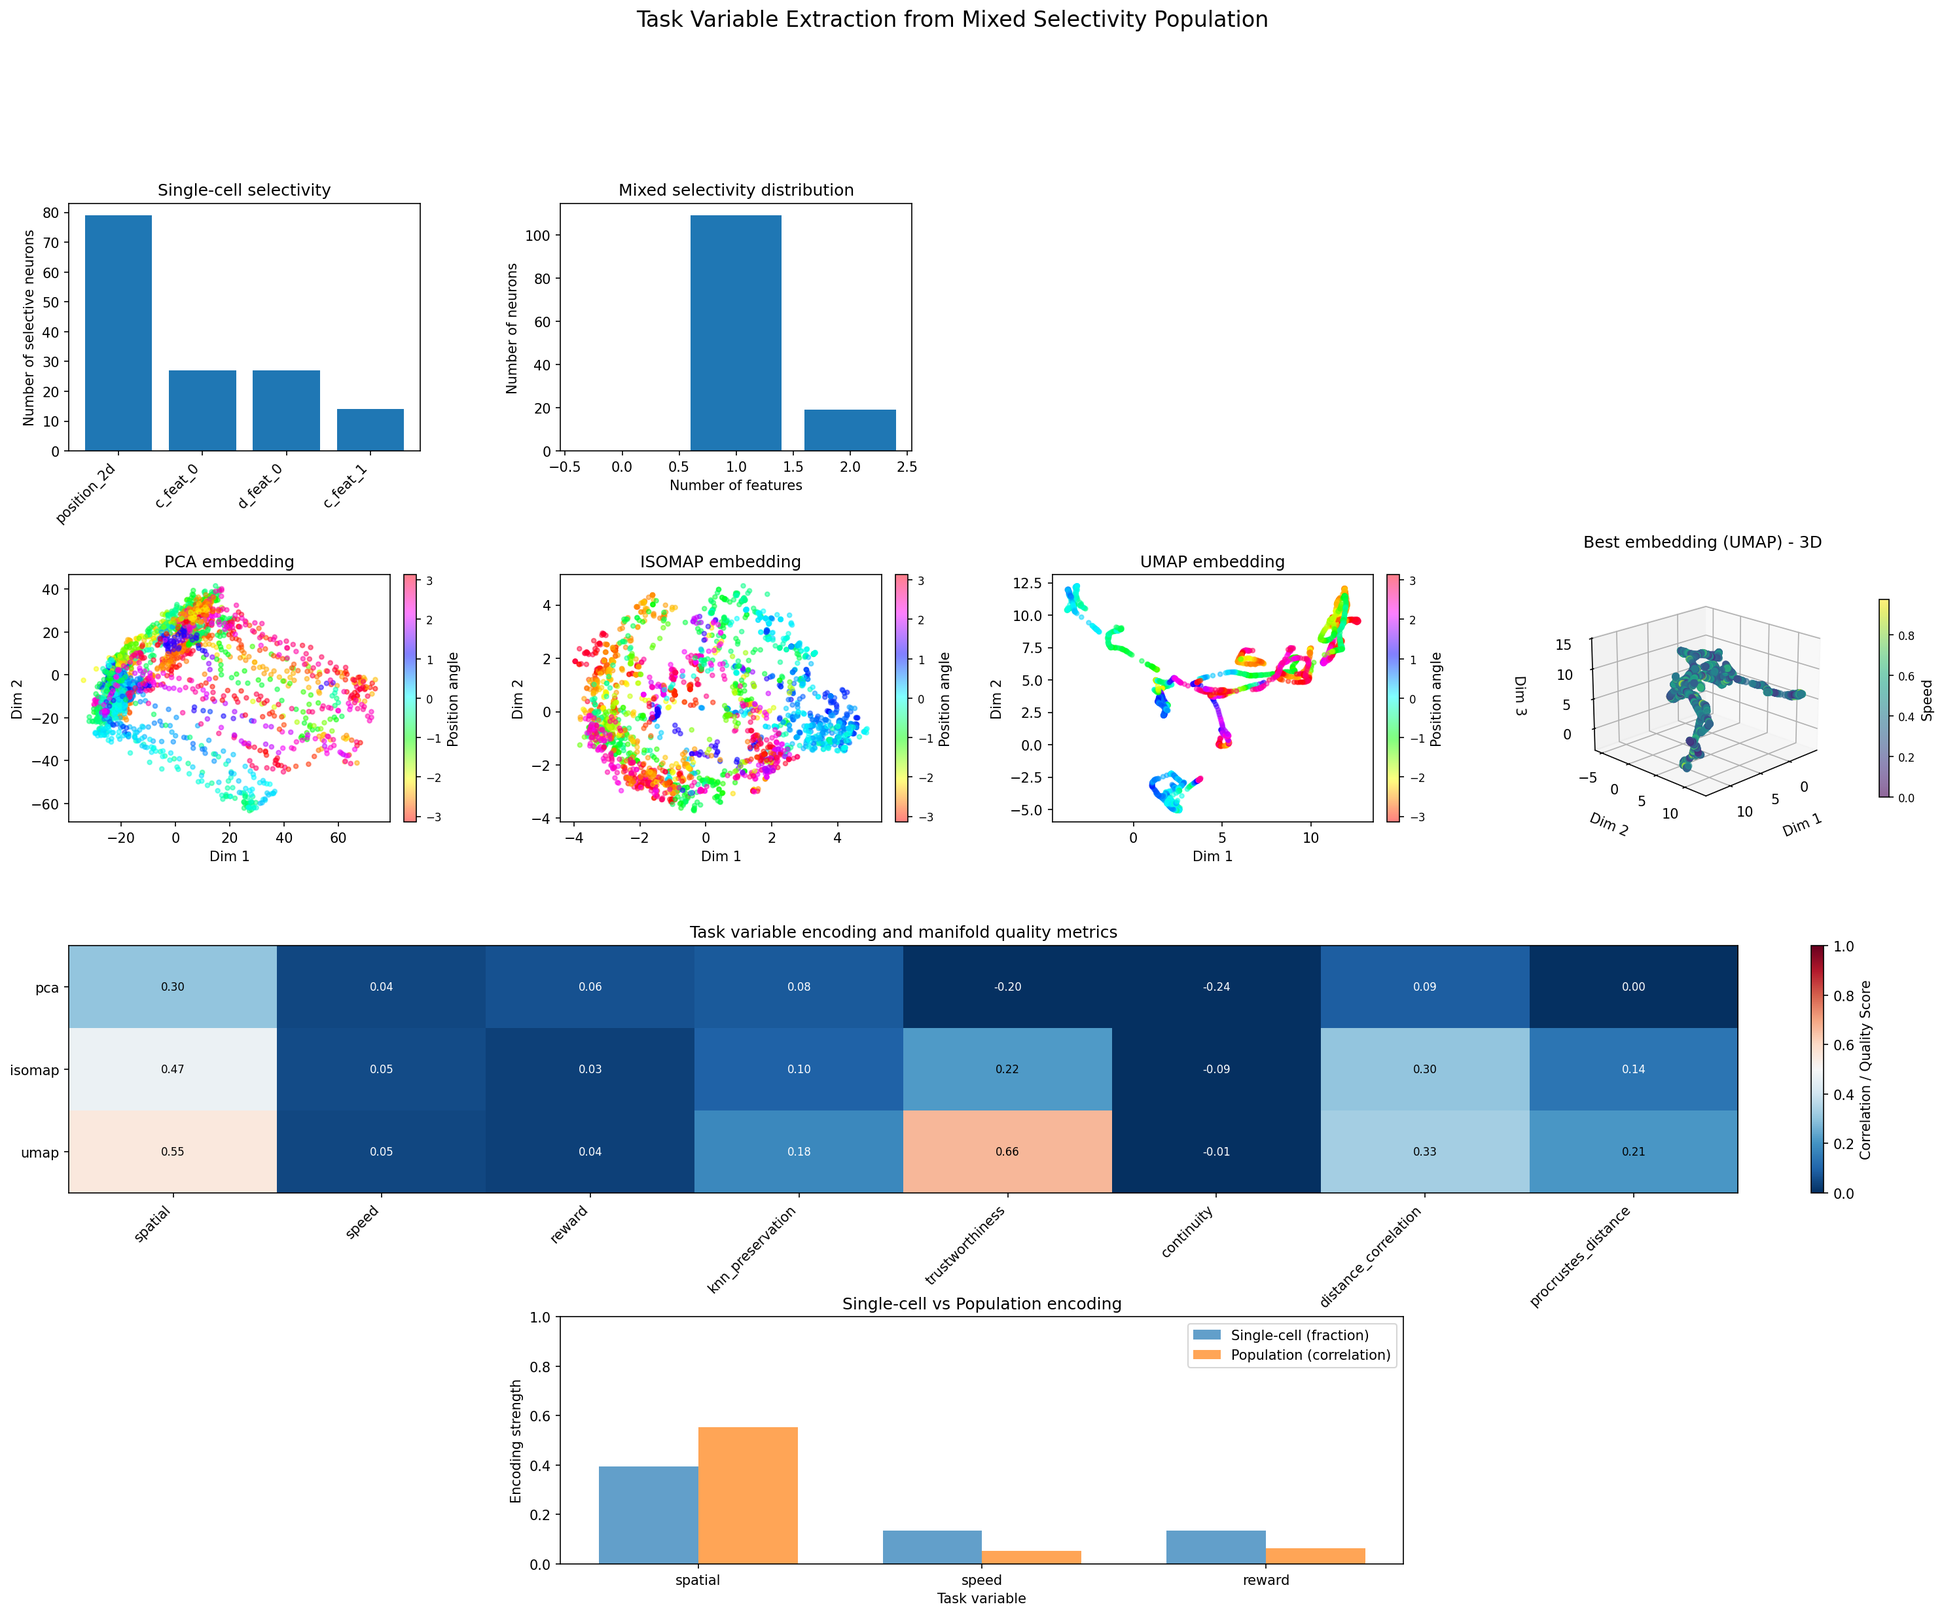
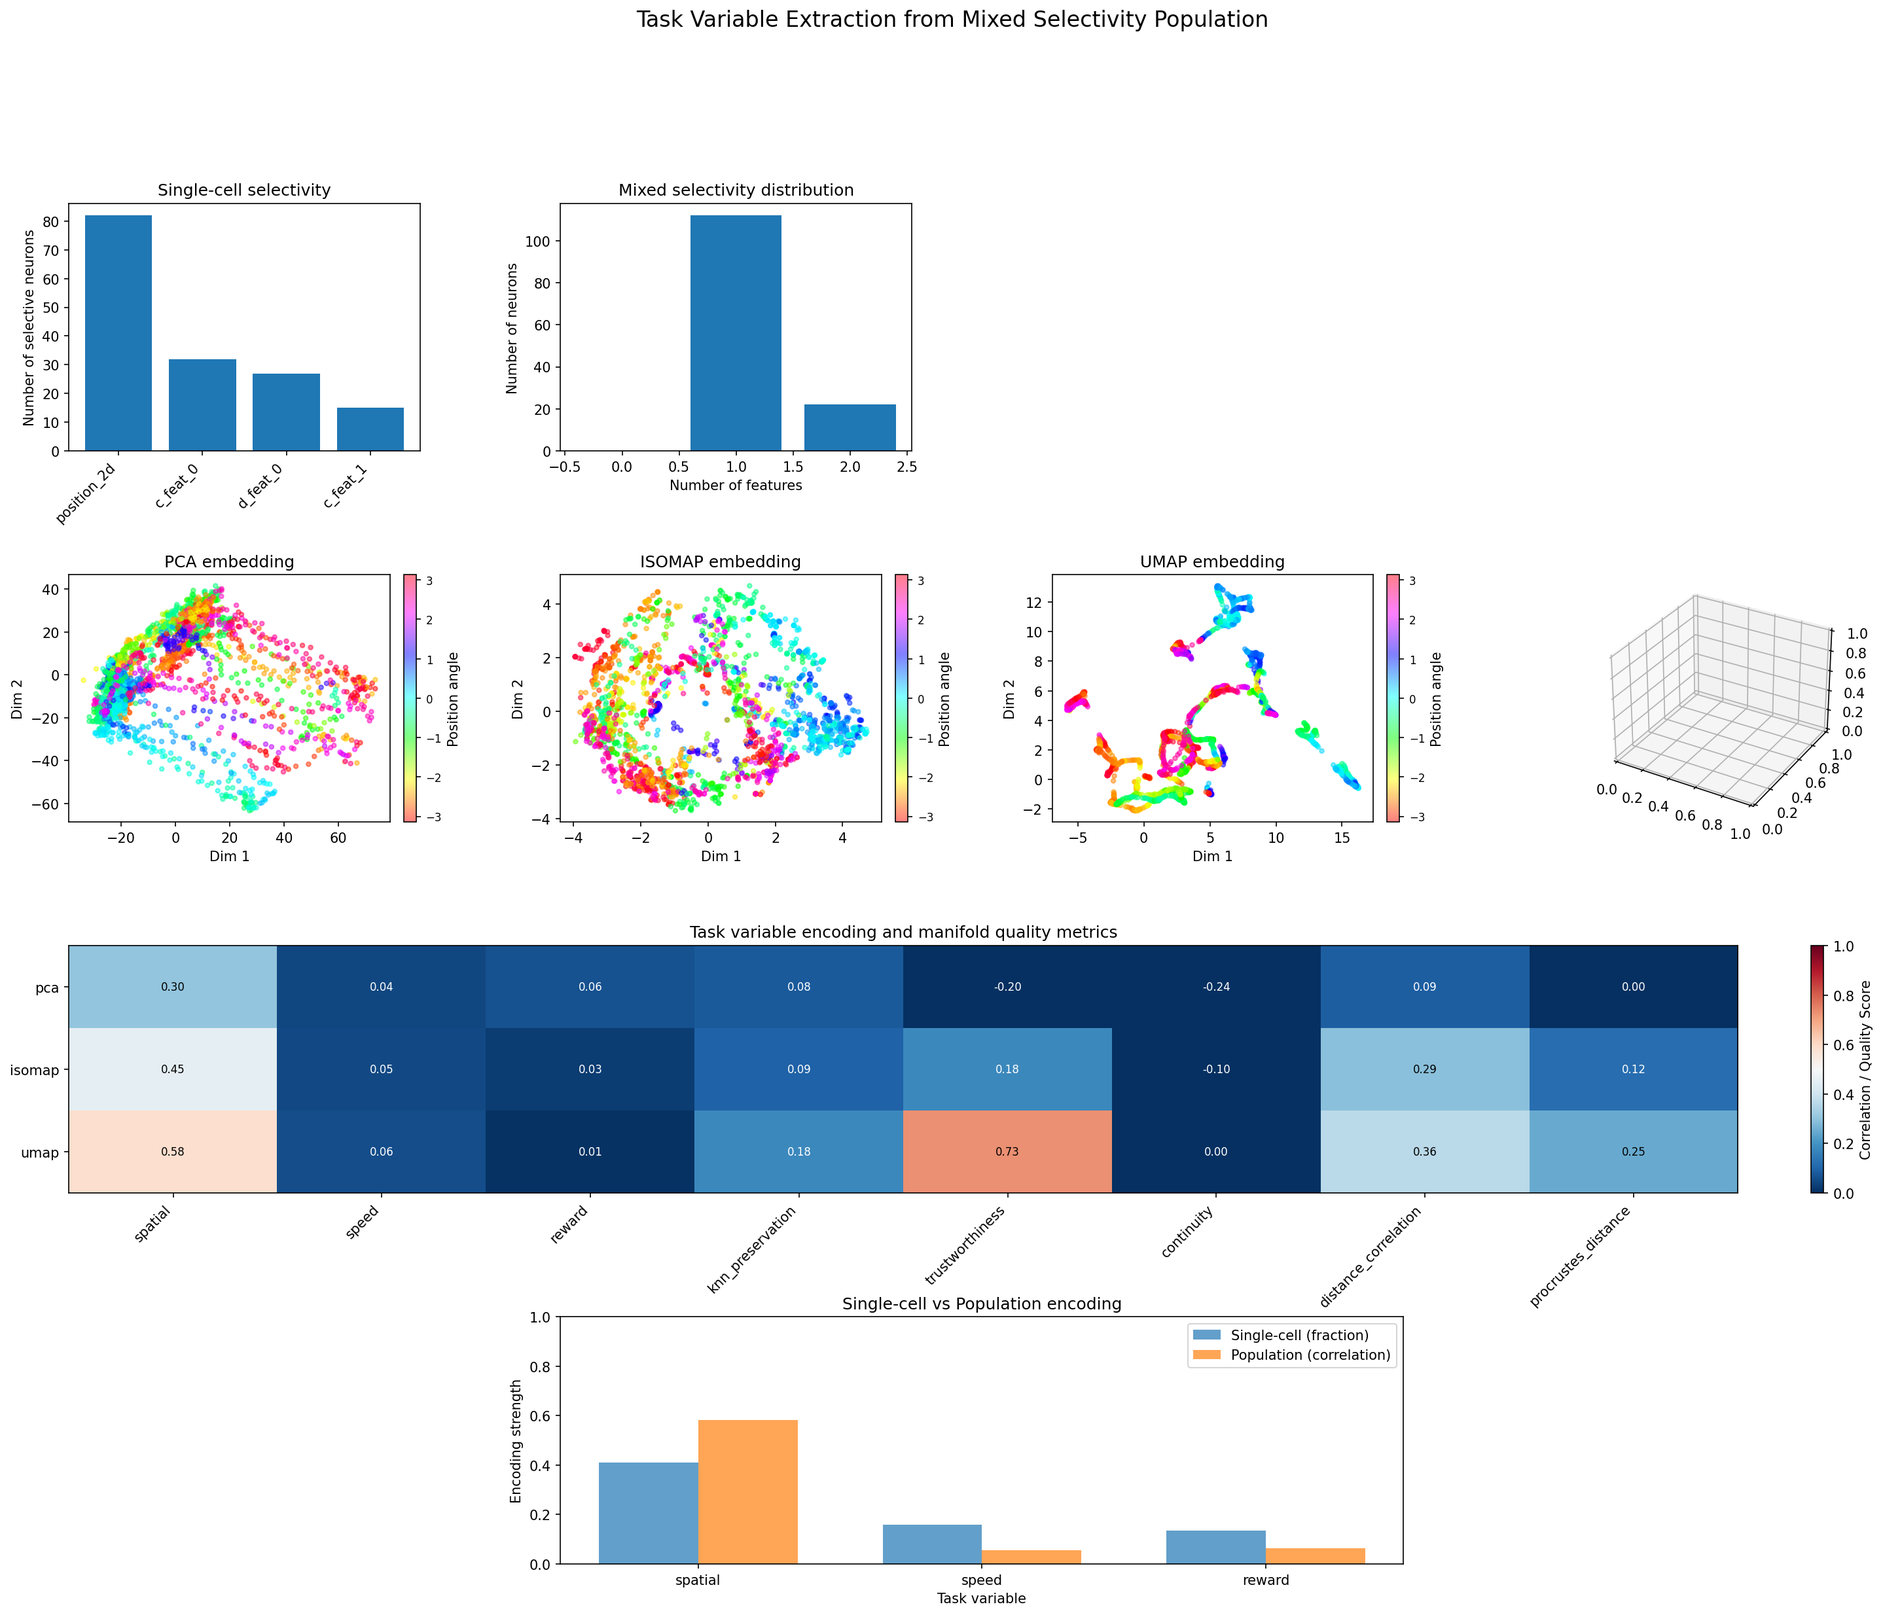
refactor: improve extract_task_variables.py visualization and fix NumbaPerformanceWarning
- Add ds=5 parameter to INTENSE analysis for consistent downsampling
- Remove upper graphs and 3D visualizations, focus on clean 2D plots
- Separate visualizations into three distinct figures:
  - task_variable_embeddings.png: 2D embeddings (PCA, Isomap, UMAP)
  - task_variable_metrics.png: Comprehensive metrics comparison
  - task_variable_encoding_comparison.png: Single-cell vs population
- Fix NumbaPerformanceWarning by ensuring contiguous arrays before mi_model_gd
- Add contiguity checks in info_base.py for better Numba performance
- Clean up duplicate PNG files from root directory

diff --git a/examples/extract_task_variables.py b/examples/extract_task_variables.py
@@ -136,7 +136,7 @@ def generate_task_data(duration=600, fps=20, seed=42):
     return exp, info
 
 
-def analyze_single_cell_selectivity(exp):
+def analyze_single_cell_selectivity(exp, ds=5):
     """
     Perform INTENSE analysis to identify single-neuron selectivity patterns.
     
@@ -144,6 +144,8 @@ def analyze_single_cell_selectivity(exp):
     ----------
     exp : Experiment
         DRIADA Experiment object
+    ds : int
+        Downsampling factor for INTENSE analysis
         
     Returns
     -------
@@ -152,6 +154,7 @@ def analyze_single_cell_selectivity(exp):
     """
     import time
     print("\n=== SINGLE-CELL SELECTIVITY ANALYSIS ===")
+    print(f"Downsampling factor: {ds}")
     
     task_features = ['position_2d', 'c_feat_0', 'c_feat_1', 'd_feat_0']
     available_features = [f for f in task_features if f in exp.dynamic_features]
@@ -173,13 +176,14 @@ def analyze_single_cell_selectivity(exp):
         n_shuffles_stage1=50,
         n_shuffles_stage2=500,
         metric_distr_type='norm',
-        pval_thr=0.001,
+        pval_thr=0.01,
         multicomp_correction=None,
         verbose=True,
         find_optimal_delays=False,
         allow_mixed_dimensions=True,
         skip_delays=skip_delays,
-        with_disentanglement=False
+        with_disentanglement=False,
+        ds=ds
     )
     print(f"INTENSE computation time: {time.time() - start:.2f}s")
     
@@ -248,12 +252,12 @@ def extract_population_structure(exp, neural_data=None, ds=5):
     
     # Try eff_dim with correction, fallback to without if it fails
     try:
-        eff_dim_value = eff_dim(data_t, enable_correction=True)
+        eff_dim_value = eff_dim(data_t.T, enable_correction=True)
         print(f"  - Effective dimension (corrected): {eff_dim_value:.2f}")
     except Exception as e:
         # Correction can fail with near-singular matrices
         try:
-            eff_dim_value = eff_dim(data_t, enable_correction=False)
+            eff_dim_value = eff_dim(data_t.T, enable_correction=False)
             print(f"  - Effective dimension: {eff_dim_value:.2f}")
         except Exception as e2:
             print(f"  - Effective dimension: Failed ({str(e2)})")
@@ -281,7 +285,7 @@ def extract_population_structure(exp, neural_data=None, ds=5):
     embeddings['pca'] = pca_emb.coords.T
     pca_var = np.var(pca_emb.coords, axis=1)
     pca_var_ratio = pca_var / np.sum(pca_var)
-    print(f"  - PCA: captured {np.sum(pca_var_ratio[:3]):.1%} variance in 3D")
+    print(f"  - PCA: captured {np.sum(pca_var_ratio[:2]):.1%} variance in 2D")
     
     metric_params = {
         'metric_name': 'l2',
@@ -298,29 +302,29 @@ def extract_population_structure(exp, neural_data=None, ds=5):
     }
     isomap_params = {
         'e_method_name': 'isomap',
-        'dim': 3,
+        'dim': 2,
         'e_method': METHODS_DICT['isomap']
     }
     isomap_emb = mvdata.get_embedding(isomap_params, g_params=isomap_graph_params, m_params=metric_params)
     embeddings['isomap'] = isomap_emb.coords.T
-    print(f"  - Isomap: embedded into 3D manifold")
+    print(f"  - Isomap: embedded into 2D manifold")
     
     umap_graph_params = {
         'g_method_name': 'knn',
         'weighted': 0,
-        'nn': 30,
+        'nn': 50,
         'max_deleted_nodes': 0.2,
         'dist_to_aff': 'hk'
     }
     umap_params = {
         'e_method_name': 'umap',
-        'dim': 3,
+        'dim': 2,
         'min_dist': 0.1,
         'e_method': METHODS_DICT['umap']
     }
     umap_emb = mvdata.get_embedding(umap_params, g_params=umap_graph_params, m_params=metric_params)
     embeddings['umap'] = umap_emb.coords.T
-    print(f"  - UMAP: embedded into 3D space")
+    print(f"  - UMAP: embedded into 2D space")
     
     return embeddings
 
@@ -423,66 +427,6 @@ def compare_with_task_variables(exp, embeddings, ds=5):
     return correlations
 
 
-def visualize_trajectories(exp, embeddings, ds=5):
-    """
-    Visualize true and reconstructed trajectories.
-    
-    Parameters
-    ----------
-    exp : Experiment
-        DRIADA Experiment object
-    embeddings : dict
-        Dictionary of embeddings from different methods
-    ds : int
-        Downsampling factor used in embeddings
-        
-    Returns
-    -------
-    fig : matplotlib.figure.Figure
-        Trajectory visualization figure
-    """
-    if 'position_2d' not in exp.dynamic_features:
-        return None
-        
-    pos_data = exp.dynamic_features['position_2d'].data[:, ::ds]
-    pos_x = pos_data[0]
-    pos_y = pos_data[1]
-    time_points = np.arange(len(pos_x))
-    
-    n_methods = len(embeddings)
-    fig, axes = plt.subplots(1, n_methods + 1, figsize=(5*(n_methods + 1), 4))
-    
-    ax = axes[0]
-    scatter = ax.scatter(pos_x, pos_y, c=time_points, cmap='viridis', s=1, alpha=0.5)
-    ax.plot(pos_x[:100], pos_y[:100], 'r-', alpha=0.5, linewidth=1, label='Start')
-    ax.set_xlabel('X position')
-    ax.set_ylabel('Y position')
-    ax.set_title('True trajectory')
-    ax.set_aspect('equal')
-    ax.legend()
-    
-    for i, (method_name, embedding) in enumerate(embeddings.items()):
-        ax = axes[i + 1]
-        
-        from driada.dim_reduction import procrustes_analysis
-        aligned_embedding, _ = procrustes_analysis(
-            np.column_stack([pos_x, pos_y]), 
-            embedding[:, :2]
-        )
-        
-        scatter = ax.scatter(aligned_embedding[:, 0], aligned_embedding[:, 1], 
-                           c=time_points, cmap='viridis', s=1, alpha=0.5)
-        ax.plot(aligned_embedding[:100, 0], aligned_embedding[:100, 1], 
-                'r-', alpha=0.5, linewidth=1, label='Start')
-        ax.set_xlabel('Dim 1')
-        ax.set_ylabel('Dim 2')
-        ax.set_title(f'{method_name.upper()} reconstruction')
-        ax.set_aspect('equal')
-        
-    plt.tight_layout()
-    return fig
-
-
 def visualize_results(exp, embeddings, selectivity_results, correlations, ds=5):
     """
     Create comprehensive visualization of results.
@@ -500,35 +444,11 @@ def visualize_results(exp, embeddings, selectivity_results, correlations, ds=5):
     ds : int
         Downsampling factor used
     """
-    fig = plt.figure(figsize=(24, 18))
-    
-    gs = fig.add_gridspec(4, 4, hspace=0.5, wspace=0.4)
-    
-    ax1 = fig.add_subplot(gs[0, 0])
-    features = list(selectivity_results['significant_neurons'].values())
-    feature_counts = {}
-    for neuron_features in features:
-        for feat in neuron_features:
-            feature_counts[feat] = feature_counts.get(feat, 0) + 1
-    
-    if feature_counts:
-        ax1.bar(range(len(feature_counts)), list(feature_counts.values()))
-        ax1.set_xticks(range(len(feature_counts)))
-        ax1.set_xticklabels(list(feature_counts.keys()), rotation=45, ha='right')
-        ax1.set_ylabel('Number of selective neurons')
-        ax1.set_title('Single-cell selectivity')
-    
-    ax2 = fig.add_subplot(gs[0, 1])
-    n_features_per_neuron = [len(features) for features in selectivity_results['significant_neurons'].values()]
-    if n_features_per_neuron:
-        hist_data = np.bincount(n_features_per_neuron)
-        ax2.bar(range(len(hist_data)), hist_data)
-        ax2.set_xlabel('Number of features')
-        ax2.set_ylabel('Number of neurons')
-        ax2.set_title('Mixed selectivity distribution')
+    # Create figure 1: Embeddings
+    fig1 = plt.figure(figsize=(15, 5))
     
     for i, (method_name, embedding) in enumerate(embeddings.items()):
-        ax = fig.add_subplot(gs[1, i])
+        ax = fig1.add_subplot(1, 3, i+1)
         
         if 'position_2d' in exp.dynamic_features:
             pos_data = exp.dynamic_features['position_2d'].data[:, ::ds]
@@ -536,38 +456,24 @@ def visualize_results(exp, embeddings, selectivity_results, correlations, ds=5):
             pos_y = pos_data[1]
             colors = np.arctan2(pos_y - 0.5, pos_x - 0.5)
             scatter = ax.scatter(embedding[:, 0], embedding[:, 1], 
-                               c=colors, cmap='hsv', alpha=0.5, s=10)
+                               c=colors, cmap='hsv', alpha=0.6, s=20)
             cbar = plt.colorbar(scatter, ax=ax, label='Position angle', fraction=0.046, pad=0.04)
             cbar.ax.tick_params(labelsize=8)
         else:
-            ax.scatter(embedding[:, 0], embedding[:, 1], alpha=0.5, s=10)
+            ax.scatter(embedding[:, 0], embedding[:, 1], alpha=0.6, s=20)
         
         ax.set_xlabel('Dim 1')
         ax.set_ylabel('Dim 2')
         ax.set_title(f'{method_name.upper()} embedding')
     
-    best_method = max(correlations.keys(), 
-                     key=lambda m: correlations[m].get('spatial', 0))
-    ax3d = fig.add_subplot(gs[1, 3], projection='3d')
-    embedding = embeddings[best_method]
+    plt.tight_layout()
+    plt.savefig('task_variable_embeddings.png', dpi=150, bbox_inches='tight')
+    plt.show()
     
-    if 'c_feat_0' in exp.dynamic_features:
-        colors = exp.dynamic_features['c_feat_0'].data[::ds]
-        scatter = ax3d.scatter(embedding[:, 0], embedding[:, 1], embedding[:, 2],
-                             c=colors, cmap='viridis', alpha=0.6, s=20)
-        cbar = plt.colorbar(scatter, ax=ax3d, label='Speed', pad=0.15, fraction=0.046, shrink=0.8)
-        cbar.ax.tick_params(labelsize=8)
-    else:
-        ax3d.scatter(embedding[:, 0], embedding[:, 1], embedding[:, 2],
-                    alpha=0.6, s=20)
+    # Create figure 2: Metrics comparison
+    fig2 = plt.figure(figsize=(12, 6))
     
-    ax3d.set_xlabel('Dim 1', labelpad=10)
-    ax3d.set_ylabel('Dim 2', labelpad=10)
-    ax3d.set_zlabel('Dim 3', labelpad=10)
-    ax3d.set_title(f'Best embedding ({best_method.upper()}) - 3D', pad=20)
-    ax3d.view_init(elev=20, azim=45)
-    
-    ax4 = fig.add_subplot(gs[2:3, 0:4])
+    ax4 = fig2.add_subplot(1, 1, 1)
     methods = list(correlations.keys())
     
     all_metrics = ['spatial', 'speed', 'reward', 'knn_preservation', 
@@ -603,9 +509,22 @@ def visualize_results(exp, embeddings, selectivity_results, correlations, ds=5):
         for j in range(len(available_metrics)):
             text_color = 'white' if abs(corr_matrix[i, j] - 0.5) > 0.3 else 'black'
             ax4.text(j, i, f'{corr_matrix[i, j]:.2f}', 
-                    ha='center', va='center', color=text_color, fontsize=8)
+                    ha='center', va='center', color=text_color, fontsize=10)
     
-    ax5 = fig.add_subplot(gs[3, 1:3])
+    plt.tight_layout()
+    plt.savefig('task_variable_metrics.png', dpi=150, bbox_inches='tight')
+    plt.show()
+    
+    # Create figure 3: Single-cell vs Population encoding comparison
+    fig3 = plt.figure(figsize=(8, 6))
+    ax5 = fig3.add_subplot(1, 1, 1)
+    
+    # Get feature counts for single-cell encoding
+    features = list(selectivity_results['significant_neurons'].values())
+    feature_counts = {}
+    for neuron_features in features:
+        for feat in neuron_features:
+            feature_counts[feat] = feature_counts.get(feat, 0) + 1
     
     single_cell_encoding = {}
     total_neurons = exp.n_cells
@@ -650,8 +569,8 @@ def visualize_results(exp, embeddings, selectivity_results, correlations, ds=5):
         ax5.set_title('Single-cell vs Population encoding')
         ax5.set_ylim(0, 1)
     
-    plt.suptitle('Task Variable Extraction from Mixed Selectivity Population', fontsize=16, y=0.99)
-    plt.savefig('task_variable_extraction.png', dpi=150, bbox_inches='tight')
+    plt.tight_layout()
+    plt.savefig('task_variable_encoding_comparison.png', dpi=150, bbox_inches='tight')
     plt.show()
 
 
@@ -667,12 +586,14 @@ def main():
     exp, info = generate_task_data(duration=600, fps=20, seed=42)
     print(f"\nTime for data generation: {time.time() - start_time:.2f}s")
     
+    # Set downsampling factor for both INTENSE and DR analysis
+    ds = 5
+    
     start_time = time.time()
-    selectivity_results = analyze_single_cell_selectivity(exp)
+    selectivity_results = analyze_single_cell_selectivity(exp, ds=ds)
     print(f"Time for INTENSE analysis: {time.time() - start_time:.2f}s")
     
     start_time = time.time()
-    ds = 5
     embeddings = extract_population_structure(exp, ds=ds)
     print(f"Time for dimensionality reduction: {time.time() - start_time:.2f}s")
     
@@ -682,14 +603,7 @@ def main():
     
     start_time = time.time()
     visualize_results(exp, embeddings, selectivity_results, correlations, ds=ds)
-    print(f"Time for main visualization: {time.time() - start_time:.2f}s")
-    
-    start_time = time.time()
-    traj_fig = visualize_trajectories(exp, embeddings, ds=ds)
-    if traj_fig:
-        plt.savefig('task_variable_trajectories.png', dpi=150, bbox_inches='tight')
-        plt.show()
-    print(f"Time for trajectory visualization: {time.time() - start_time:.2f}s")
+    print(f"Time for visualization: {time.time() - start_time:.2f}s")
     
     print("\n" + "=" * 70)
     print("KEY INSIGHTS")
@@ -728,7 +642,10 @@ def main():
     print("     * UMAP: local and global structure")
     
     print("\n" + "=" * 70)
-    print("Visualization saved as 'task_variable_extraction.png'")
+    print("Visualizations saved as:")
+    print("  - task_variable_embeddings.png")
+    print("  - task_variable_metrics.png")
+    print("  - task_variable_encoding_comparison.png")
     
     return exp, selectivity_results, embeddings, correlations
 

diff --git a/src/driada/information/info_base.py b/src/driada/information/info_base.py
@@ -302,6 +302,9 @@ def get_mi(x, y, shift=0, ds=1, k=5, estimator='gcmi', check_for_coincidence=Fal
 
         if ts.discrete:
             ny1 = np.roll(mts.copula_normal_data[:, ::ds], shift)
+            # Ensure ny1 is contiguous for better performance with Numba
+            if not ny1.flags['C_CONTIGUOUS']:
+                ny1 = np.ascontiguousarray(ny1)
             ny2 = ts.int_data[::ds]
             mi = mi_model_gd(ny1, ny2, np.max(ny2), biascorrect=True, demeaned=True)
 
@@ -459,6 +462,9 @@ def get_1d_mi(ts1, ts2, shift=0, ds=1, k=5, estimator='gcmi', check_for_coincide
         elif ts1.discrete and not ts2.discrete:
             ny1 = ts1.int_data[::ds]
             ny2 = np.roll(ts2.copula_normal_data[::ds], shift)
+            # Ensure ny2 is contiguous for better performance with Numba
+            if not ny2.flags['C_CONTIGUOUS']:
+                ny2 = np.ascontiguousarray(ny2)
             mi = mi_model_gd(ny2, ny1, np.max(ny1), biascorrect=True, demeaned=True)
 
         elif not ts1.discrete and ts2.discrete:
@@ -471,7 +477,9 @@ def get_1d_mi(ts1, ts2, shift=0, ds=1, k=5, estimator='gcmi', check_for_coincide
             print(sum(ny2))
             print(ny1)
             '''
-
+            # Ensure ny1 is contiguous for better performance with Numba
+            if not ny1.flags['C_CONTIGUOUS']:
+                ny1 = np.ascontiguousarray(ny1)
             mi = mi_model_gd(ny1, ny2, np.max(ny2), biascorrect=True, demeaned=True)
 
         if mi < 0:
